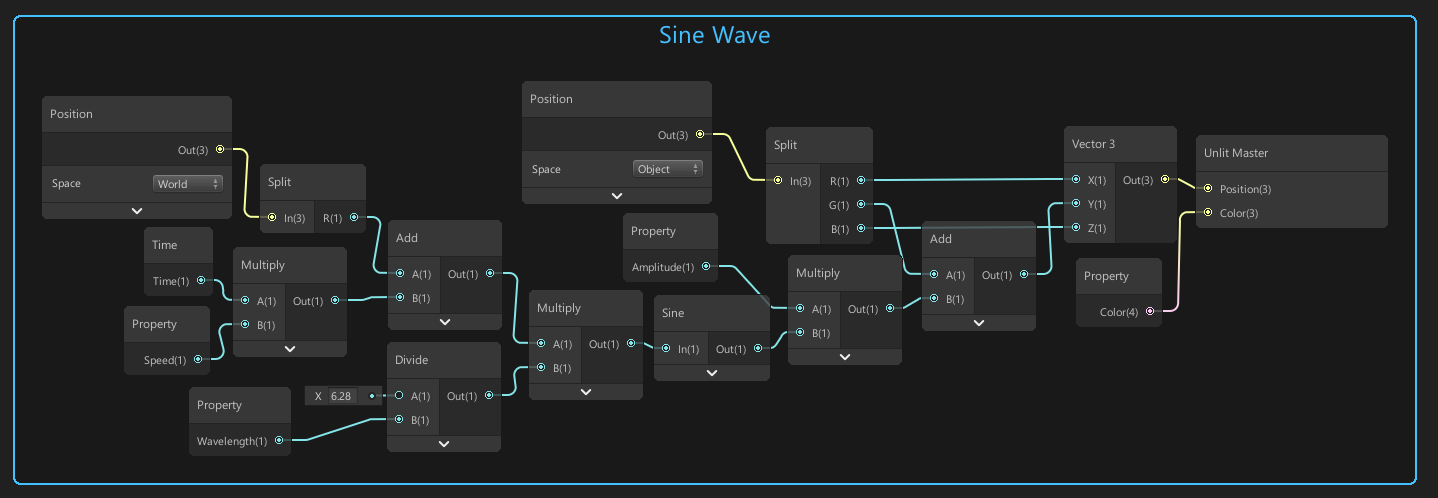
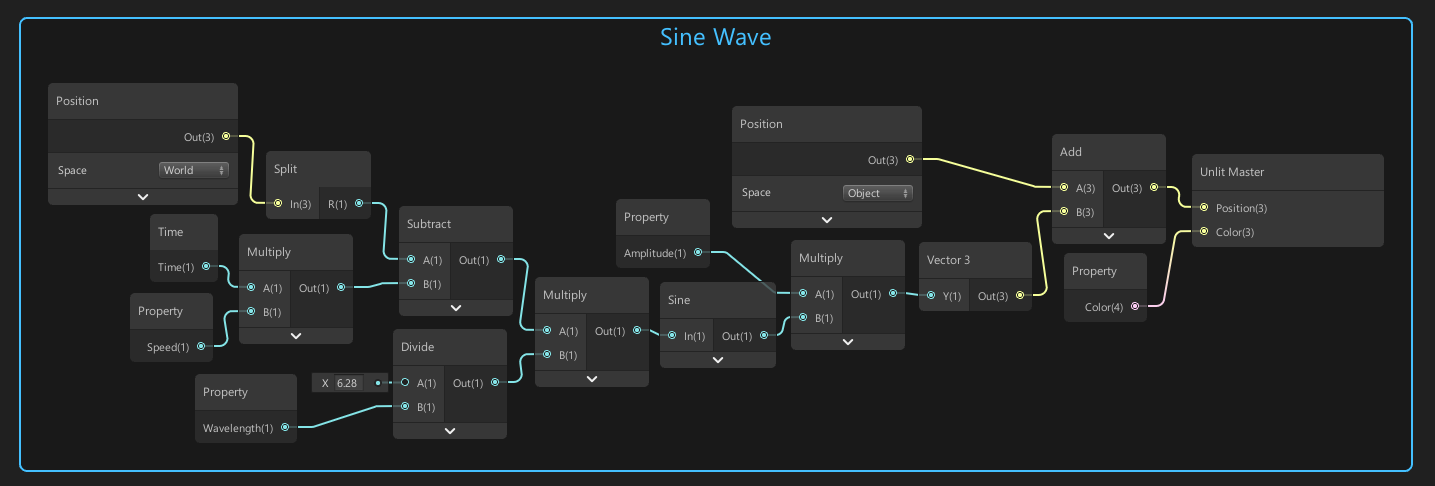
updated

diff --git a/waves/index.html b/waves/index.html
@@ -111,73 +111,103 @@ width: auto;
     <pre>
 <h1>Water 2: Waves</h1><a href="../index.html">Back to projects</a>
 
-<img src="assets/sine_wave.gif" width="300" heigh="300">
-<i>The final effect.</i>
-
 <h1>Setup</h1>Before we add waves to our shader, we need to have a tessellated plane. We would use the basic Unity plane, but it does not have enough vertices to get the smooth wave movement we want. If you want to know how to create a tessellated plane, be sure to check out the previous tutorial.
 
-<h1>What Are Waves?</h1><div>Want to <a href="#tutorial-shortcut" style="color:blue">skip theory</a>?
+<img src="assets/tessellated_plane.gif" width="300" heigh="300">
+<i>A tessellated plane</i>
+
+<h1>What Are Waves?</h1><div>Want to <a href="#waves_theory_shortcut" style="color:blue">skip theory</a>?
 </div>
-When thinking about (mechanical) waves in the context of water, we could see them as <i><b>the propagation
-of energy through a medium (the water)</b></i>. When the energy reaches a certain water particle, that particle gets <b><i>excited</i></b> and moves upwards. When we send this energy through the medium in an oscillating way, the movement of the particles will be oscillating as well. Mechanical waves transport energy. 
+When thinking about (mechanical) waves in the context of water, we can see them as <i><b>the propagation
+of energy through a medium</b></i>. When the energy reaches a certain water particle, that particle gets <b><i>excited</i></b> and moves upwards. Mechanical waves transport energy. 
 
 <img src="assets/wave_motion.jpg" width="546" height="193">
 <i>Wave Propagation</i>
 
-The profile of the wave will depend on the variation of the energy source. When we look at water waves in particular, wind is usually the energy source that causes wave propagation. The image below shows the absolute movement of a single particle in a body of water. As you can see it not only moves up an down but it follows an almost circular path and has displacement on 2 axes.
+When we look at ocean waves (where wind is the energy source), we see that the displacement of a water particle not only happens in the y direction, but also in the x direction. It follows an almost circular path.
 
 <img src="assets/water_wave.gif">
-<i>Water Wave</i>
+<i>Ocean Wave</i>
 
-<h1>Simple Waves</h1>When simulating waves in a shader, we will be changing the position (x,y,z) of every single vertex point of our water plane over time (t). We will start by creating a simple sine wave. A sine wave has several properties, we can present a sine wave as follows.
+<h1>Simulating Simple Waves</h1>When simulating waves in a shader, we will be changing the position (x,y,z) of every single vertex point of our water plane over time (t). We will start by creating a simple sine wave movement. A travelling sine wave can be represented in the following way.
 
-y(t) = asin(wt + c) + d
+y(x,t) = asin(kx-wt)<style type="text/css">
+    .tg  {border-collapse:collapse;border-spacing:0;}
+    .tg td{font-family:Arial, sans-serif;font-size:14px;padding:4px 3px;border-style:solid;border-width:1px;overflow:hidden;word-break:normal;border-color:black;}
+    .tg th{font-family:Arial, sans-serif;font-size:14px;font-weight:normal;padding:4px 3px;border-style:solid;border-width:1px;overflow:hidden;word-break:normal;border-color:black;}
+    .tg .tg-pik4{font-family:"Courier New", Courier, monospace !important;;background-color:#ffffff;border-color:inherit;text-align:left;vertical-align:top}
+    .tg .tg-3izb{font-family:"Courier New", Courier, monospace !important;;background-color:#efefef;border-color:inherit;text-align:left;vertical-align:top}
+    .tg .tg-ilsr{font-weight:bold;font-family:"Courier New", Courier, monospace !important;;background-color:#ffffff;border-color:inherit;text-align:left;vertical-align:top}
+    </style>
+    <table class="tg">
+      <tr>
+        <th class="tg-ilsr">Variable</th>
+        <th class="tg-ilsr">Description</th>
+      </tr>
+      <tr>
+        <td class="tg-3izb">a</td>
+        <td class="tg-3izb">Amplitude</td>
+      </tr>
+      <tr>
+        <td class="tg-pik4">k</td>
+        <td class="tg-pik4">Wavenumber</td>
+      </tr>
+      <tr>
+        <td class="tg-3izb">w</td>
+        <td class="tg-3izb">Angular Frequency</td>
+      </tr>
+      <tr>
+        <td class="tg-pik4">λ</td>
+        <td class="tg-pik4">Wavelength Lambda</td>
+      </tr>
+      <tr>
+        <td class="tg-3izb">f</td>
+        <td class="tg-3izb">Frequency</td>
+      </tr>
+    </table>
 
-OR
+the following relationships also exist<style type="text/css">
+    .tg  {border-collapse:collapse;border-spacing:0;}
+    .tg td{font-family:Arial, sans-serif;font-size:14px;padding:4px 3px;border-style:solid;border-width:1px;overflow:hidden;word-break:normal;border-color:black;}
+    .tg th{font-family:Arial, sans-serif;font-size:14px;font-weight:normal;padding:4px 3px;border-style:solid;border-width:1px;overflow:hidden;word-break:normal;border-color:black;}
+    .tg .tg-pik4{font-family:"Courier New", Courier, monospace !important;;background-color:#ffffff;border-color:inherit;text-align:left;vertical-align:top}
+    </style>
+    <table class="tg">
+      <tr>
+        <th class="tg-pik4">w = 2πf</th>
+      </tr>
+      <tr>
+        <td class="tg-pik4">f = 1/λ</td>
+      </tr>
+      <tr>
+        <td class="tg-pik4">k = 2π/λ</td>
+      </tr>
+    </table>
+Using those relationships, and by introducing a speed variable v, we can rewrite the previous equation as follows. We also add an initial offset y0.
 
-y(x) = asin(wx + c) + d
-
-where
-
-a = amplitude
-w = angular frequency
-c = phase offset (θ, theta)
-d = vertical offset (y0)
-
-the following relationships also exist
-
-w = 2πf where f = frequency
-f = 1/T (T = period, for y(t))
-f = 1/λ (λ = wavelength, lambda, for y(x))
-
-In the image below you can see that it is important to differentiate between a sine wave y(t) and y(x). In the case of y(t), we talk about the <i><b>time</b></i> between 2 high points and call that the <i><b>period T</b></i>. In the case of y(x) we talk about the <i><b>distance</b></i> between 2 high points and call that the <i><b>wavelength λ</b></i>.
-<img src="assets/sine.gif">
-
-<a name="tutorial-shortcut"></a>
-Now let's move our water plane using a sine wave in shader graph. Our node setup looks like this.
+y(x,t) = asin(k(x-vt)) + y0
+<a name="waves_theory_shortcut"></a>
+Now that we have the equation for a travelling sine wave, let's use it shader graph. Our node setup looks like this.
 
 <img src="assets/sine_wave_nodes.png">
 
-Basically we just convert the following formula into nodes.
-
-y(x,t) = asin[(2π/λ)(vt+x)]+y0
-
-The y position of each vertex depends on the x position of the vertex and the time. We introduce a speed variable v that will control <i>how fast time progresses</i>. We get the following result.
+We do nothing more than translating the equation into nodes. We get the following result.
 
 <img src="assets/sine_wave.gif" width="300" heigh="300">
 
 This looks alright but this is not how water waves look in the real world, we can do better!
 
-<h1>More Complex Waves</h1>
+<h1>Gerstner Waves</h1><div>Want to <a href="#gerstner_theory_shortcut" style="color:blue">skip theory</a>?
+</div>
 
-<h1>Gerstner Waves</h1>
-
-
+Gerstner waves are also called trochoidal waves. A trochoid is a curve that is described by a fixed point on a circle as it rolls along a straight line.
+<a name="gerstner_theory_shortcut"></a>
 
 <h1>Sources</h1>
 <a href="https://en.wikipedia.org/wiki/Mechanical_wave" target="_blank">https://en.wikipedia.org/wiki/Mechanical_wave</a>
 <a href="https://en.wikipedia.org/wiki/Wind_wave" target="_blank">https://en.wikipedia.org/wiki/Wind_wave</a>
 <a href="https://catlikecoding.com/unity/tutorials/flow/waves/" target="_blank">https://catlikecoding.com/unity/tutorials/flow/waves/</a>
+<a href="https://en.wikipedia.org/wiki/Trochoid" targer="_blank">https://en.wikipedia.org/wiki/Trochoid</a>
 
 <hr>
 <a href="http://www.twitter.com/alexanderameye" target="_blank">@alexanderameye</a>
